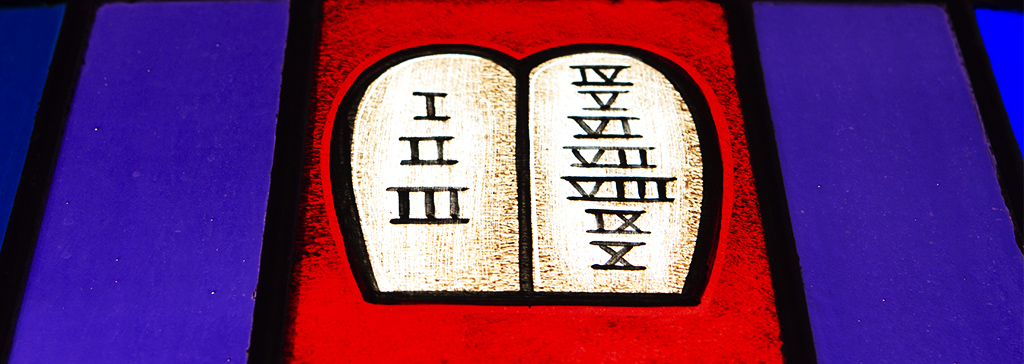
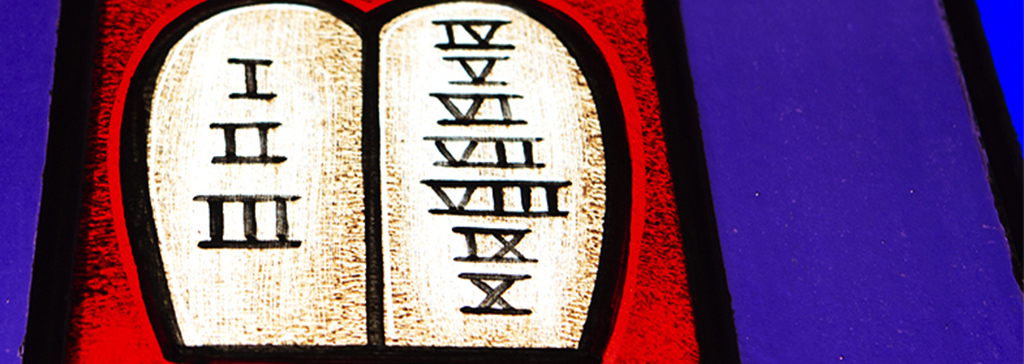
update of header images
update of custom_calendar.php

diff --git a/about.html b/about.html
@@ -40,7 +40,7 @@
 	<main>
 		
 		
-		<div class="afterright">
+		<div class="afterhr">
 			<h2>What We Believe About God</h2>
 			<p>We believe in the Triune God — God the Father, God the Son, and God the Holy Spirit. We acknowledge one God in these three persons.
 
@@ -53,7 +53,7 @@
 		</div>
 		<hr class="lefthr"/>
 		
-		<div class="afterleft">
+		<div class="afterhr">
 			<h2>What We Believe About Us</h2>
 			<p>Trinity Lutheran Church is a congregation of the Northwest District of the Lutheran Church - Missouri Synod (LCMS). The LCMS has more than 2.3 million baptized members in over 6,100 congregations and more than 9,000 pastors. LCMS congregations operate the largest Protestant parochial school system in America.
 
@@ -70,7 +70,7 @@
 		</div>		
 		<hr class="righthr"/>
 		
-		<div class="afterright">
+		<div class="afterhr">
 			<h2>What We Believe About the Sacraments</h2>
 			<p>We believe that God uses a "delivery system" to bring His loving kindness to us in tangible ways. Besides the spoken and written Word of God, God comes to us in Baptism and Holy Communion.
 
@@ -80,7 +80,7 @@
 		</div>		
 		<hr class="lefthr"/>
 		
-		<div class="afterleft">
+		<div class="afterhr">
 			<h2>What We Believe About the Church</h2>
 			<p>We believe that the church is not a building but people joined together by God around His Word and Sacraments. We are passionate about the mission God has given us to bring His love to all people. We are committed to sharing the message of Jesus Christ with those not yet connected to Him so that they will know Him. We are dedicated to discipling people so that they will know more about Jesus, serve Him more effectively and join us more fervently in that mission.</p>	
 		</div>	

diff --git a/ministries.html b/ministries.html
@@ -31,8 +31,7 @@
 		<!-- NAVIGATION END -->
 		
 		<!-- Header Image -->
-		<img src="images/commandments.jpg" class="head-img"/>
-		<!-- SCROLLING HEADER PHOTOS -->
+		<img src="images/ministries.jpg" class="head-img"/>
     </header>
 	<!-- HEADER END -->
 	
@@ -42,7 +41,7 @@
 		<!-- DUPLICATE LAYOUT OF ABOUT PAGE -->
 		<!-- INCLUDE ALBUM -->
 		
-		<div class="afterleft">
+		<div class="afterhr">
 			<h2>Ministries</h2>
 			<h3>Women's Bible Study</h3>
 			<p>All women are welcome!  This group meets every Thursday in the church’s fellowship hall.  The time is spent in fellowship, prayer, discussion, and reading the scriptures.  Books are available, contact Pastor David at davelafore@gmail.com, or just show up!</p>

diff --git a/css/style.css b/css/style.css
@@ -21,7 +21,7 @@ html,
 html * {
 	padding: 0;
 	margin: 0;
-	box-sizing: border-box;
+	border-box: box-sizing; 
 	font-family: "aktiv-grotesk", "san serif";
 }
 
@@ -107,7 +107,7 @@ main div{
 	margin-top: 1em;
 	margin-bottom: 1em;
 }
-.afterleft{
+.afterhr
 	padding-left:10% ;
 	padding-right: 10%;
 }
@@ -123,10 +123,7 @@ main div{
 	margin-top: 1em;
 	margin-bottom: 1em;
 }
-.afterright{
-	padding-right: 10%;
-	padding-left:10% ;
-}
+
 
 /*--- IMG STYLES ---*/
 
@@ -153,6 +150,7 @@ main div{
 	overflow:hidden;
 	position:relative;
 	height:0;
+	padding: 0;
 	
 }
 .map-container iframe{

diff --git a/index.html b/index.html
@@ -30,7 +30,7 @@
 		<!-- NAVIGATION END -->
 		
 		<!-- Header Image -->
-		<img src="images/redcross.jpg" class="head-img"/>	
+		<img src="images/church.jpg" class="head-img"/>	
 		
 		<!-- 	REPLACE HEADER IMAGE WITH TRINITY WINDOW -->	
     

diff --git a/staff.html b/staff.html
@@ -30,7 +30,7 @@
     	<!-- NAVIGATION END -->
 		
 		<!-- Header Image -->
-		<img src="images/manger.jpg" class="head-img"/>
+		<img src="images/pastor_teaching.jpg" class="head-img"/>
 	</header>
 	<!-- HEADER END-->
 	

diff --git a/events.html b/events.html
@@ -32,7 +32,7 @@
 		<!-- NAVIGATION END -->
 		
 		<!-- Header Image -->
-		<img src="images/service.jpg" class="head-img"/>
+		<img src="images/servicepeople.jpg" class="head-img"/>
     </header>
 	<!-- HEADER END-->
 	

diff --git a/includes/custom_calendar.php b/includes/custom_calendar.php
@@ -1,4 +1,4 @@
-$your_google_calendar="https://www.google.com/calendar/embed?src=usa__en@holiday.calendar.google.com&gsessionid=OK";
+$your_google_calendar="https://calendar.google.com/calendar/embed?src=04kibn509th4ri2eg6q254g490%40group.calendar.google.com&ctz=America%2FLos_Angeles";
 $url= parse_url($your_google_calendar);
 $google_domain = $url['scheme'].'://'.$url['host'].dirname($url['path']).'/';
 // Load and parse Google's raw calendar
@@ -8,6 +8,7 @@ $dom->loadHTMLfile($your_google_calendar);
 $css = $dom->getElementByTagName('link')->item(0);
 $css_href = $css->getAttributes('href');
 $css->setAttributes('href', $google_domain . $css_href);
+
 // Change Google's JS file to use absolute URLs
 $scripts = $dom->getElementByTagName('script')->item(0);
 foreach ($scripts as $script) {
